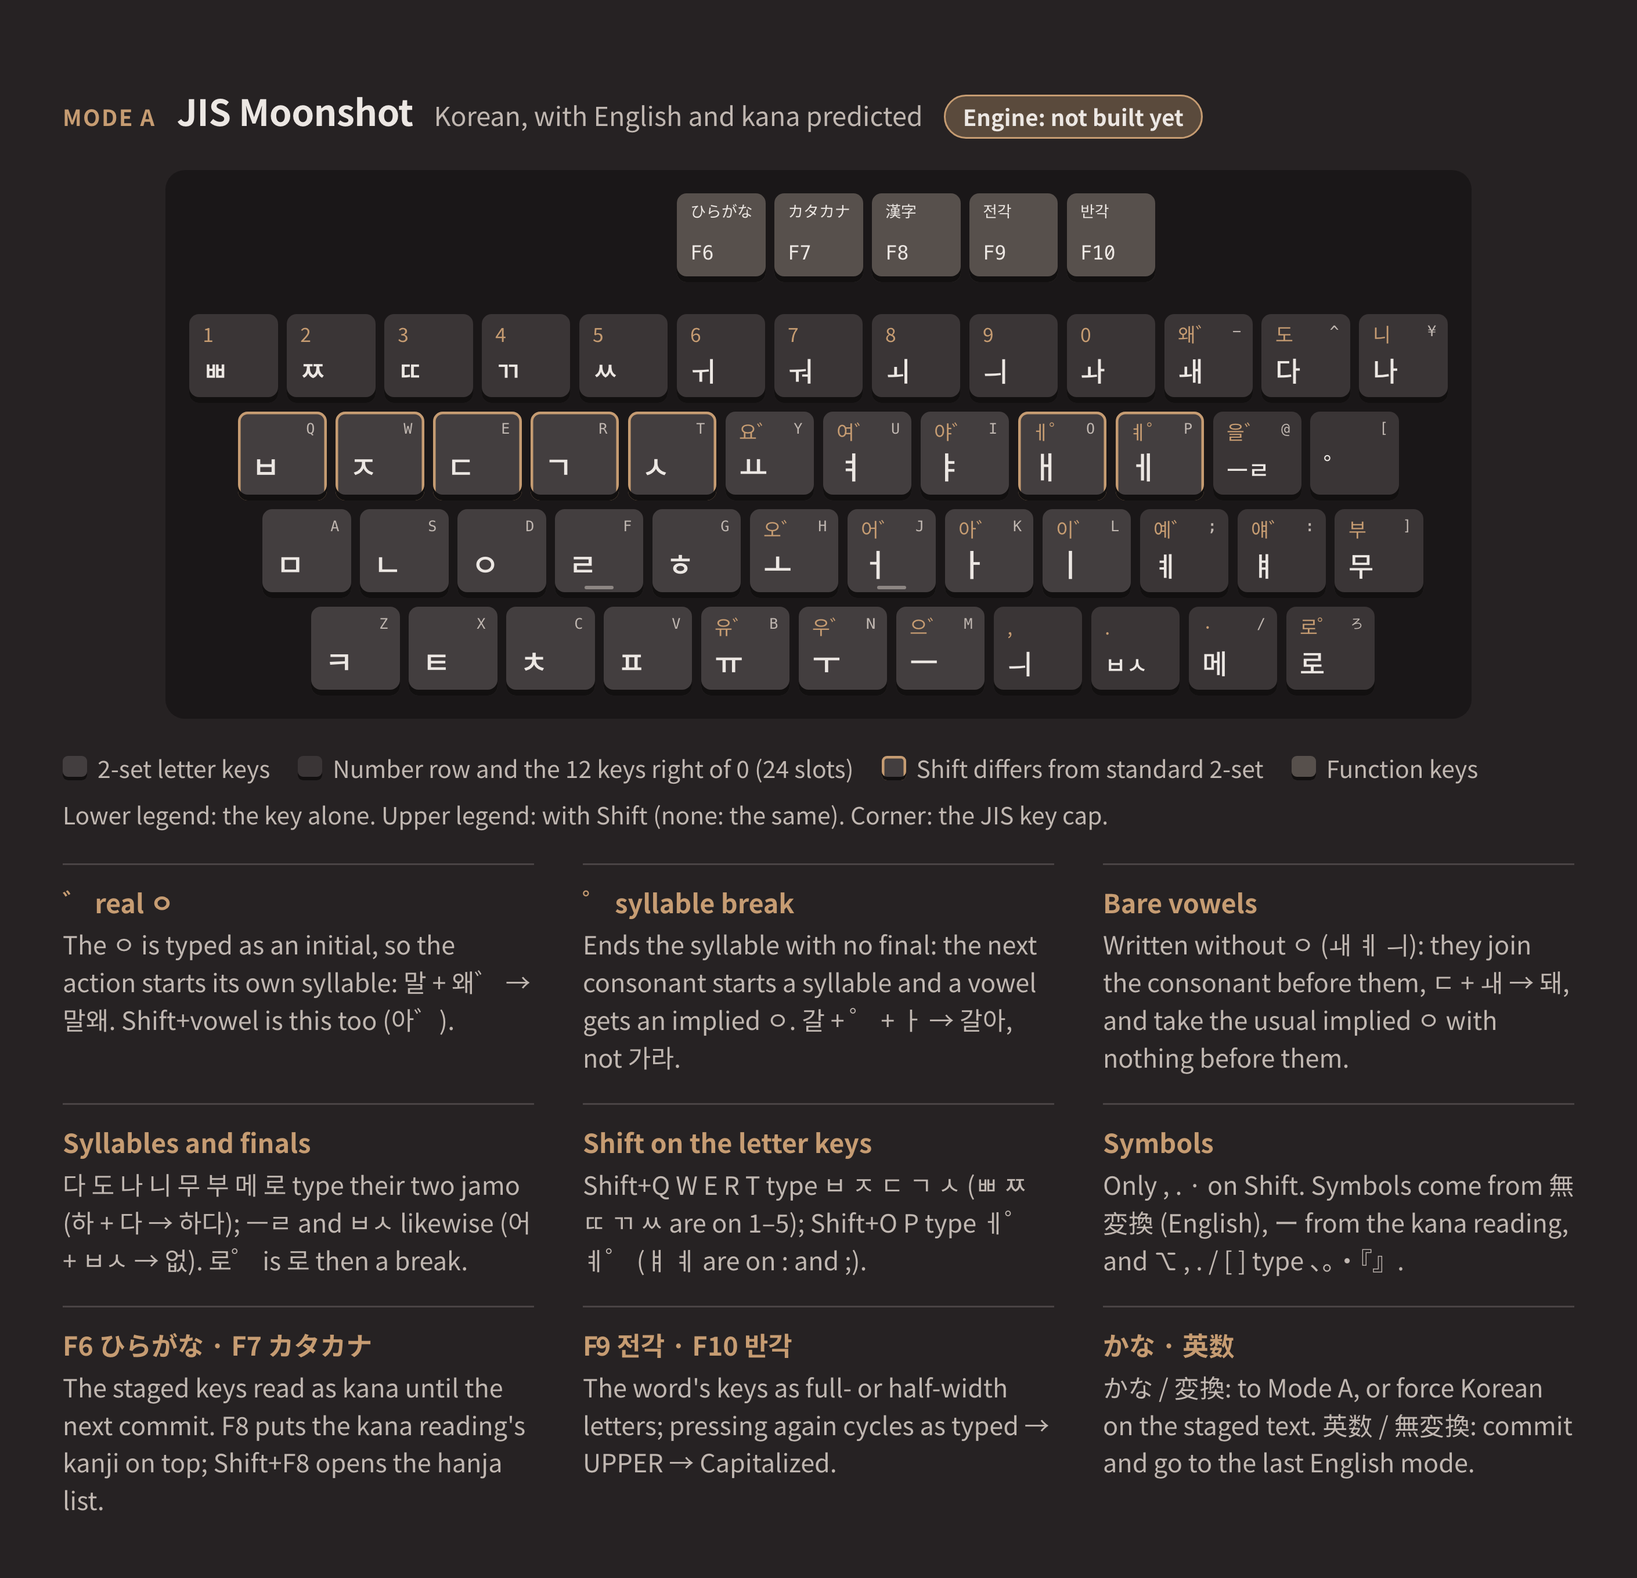
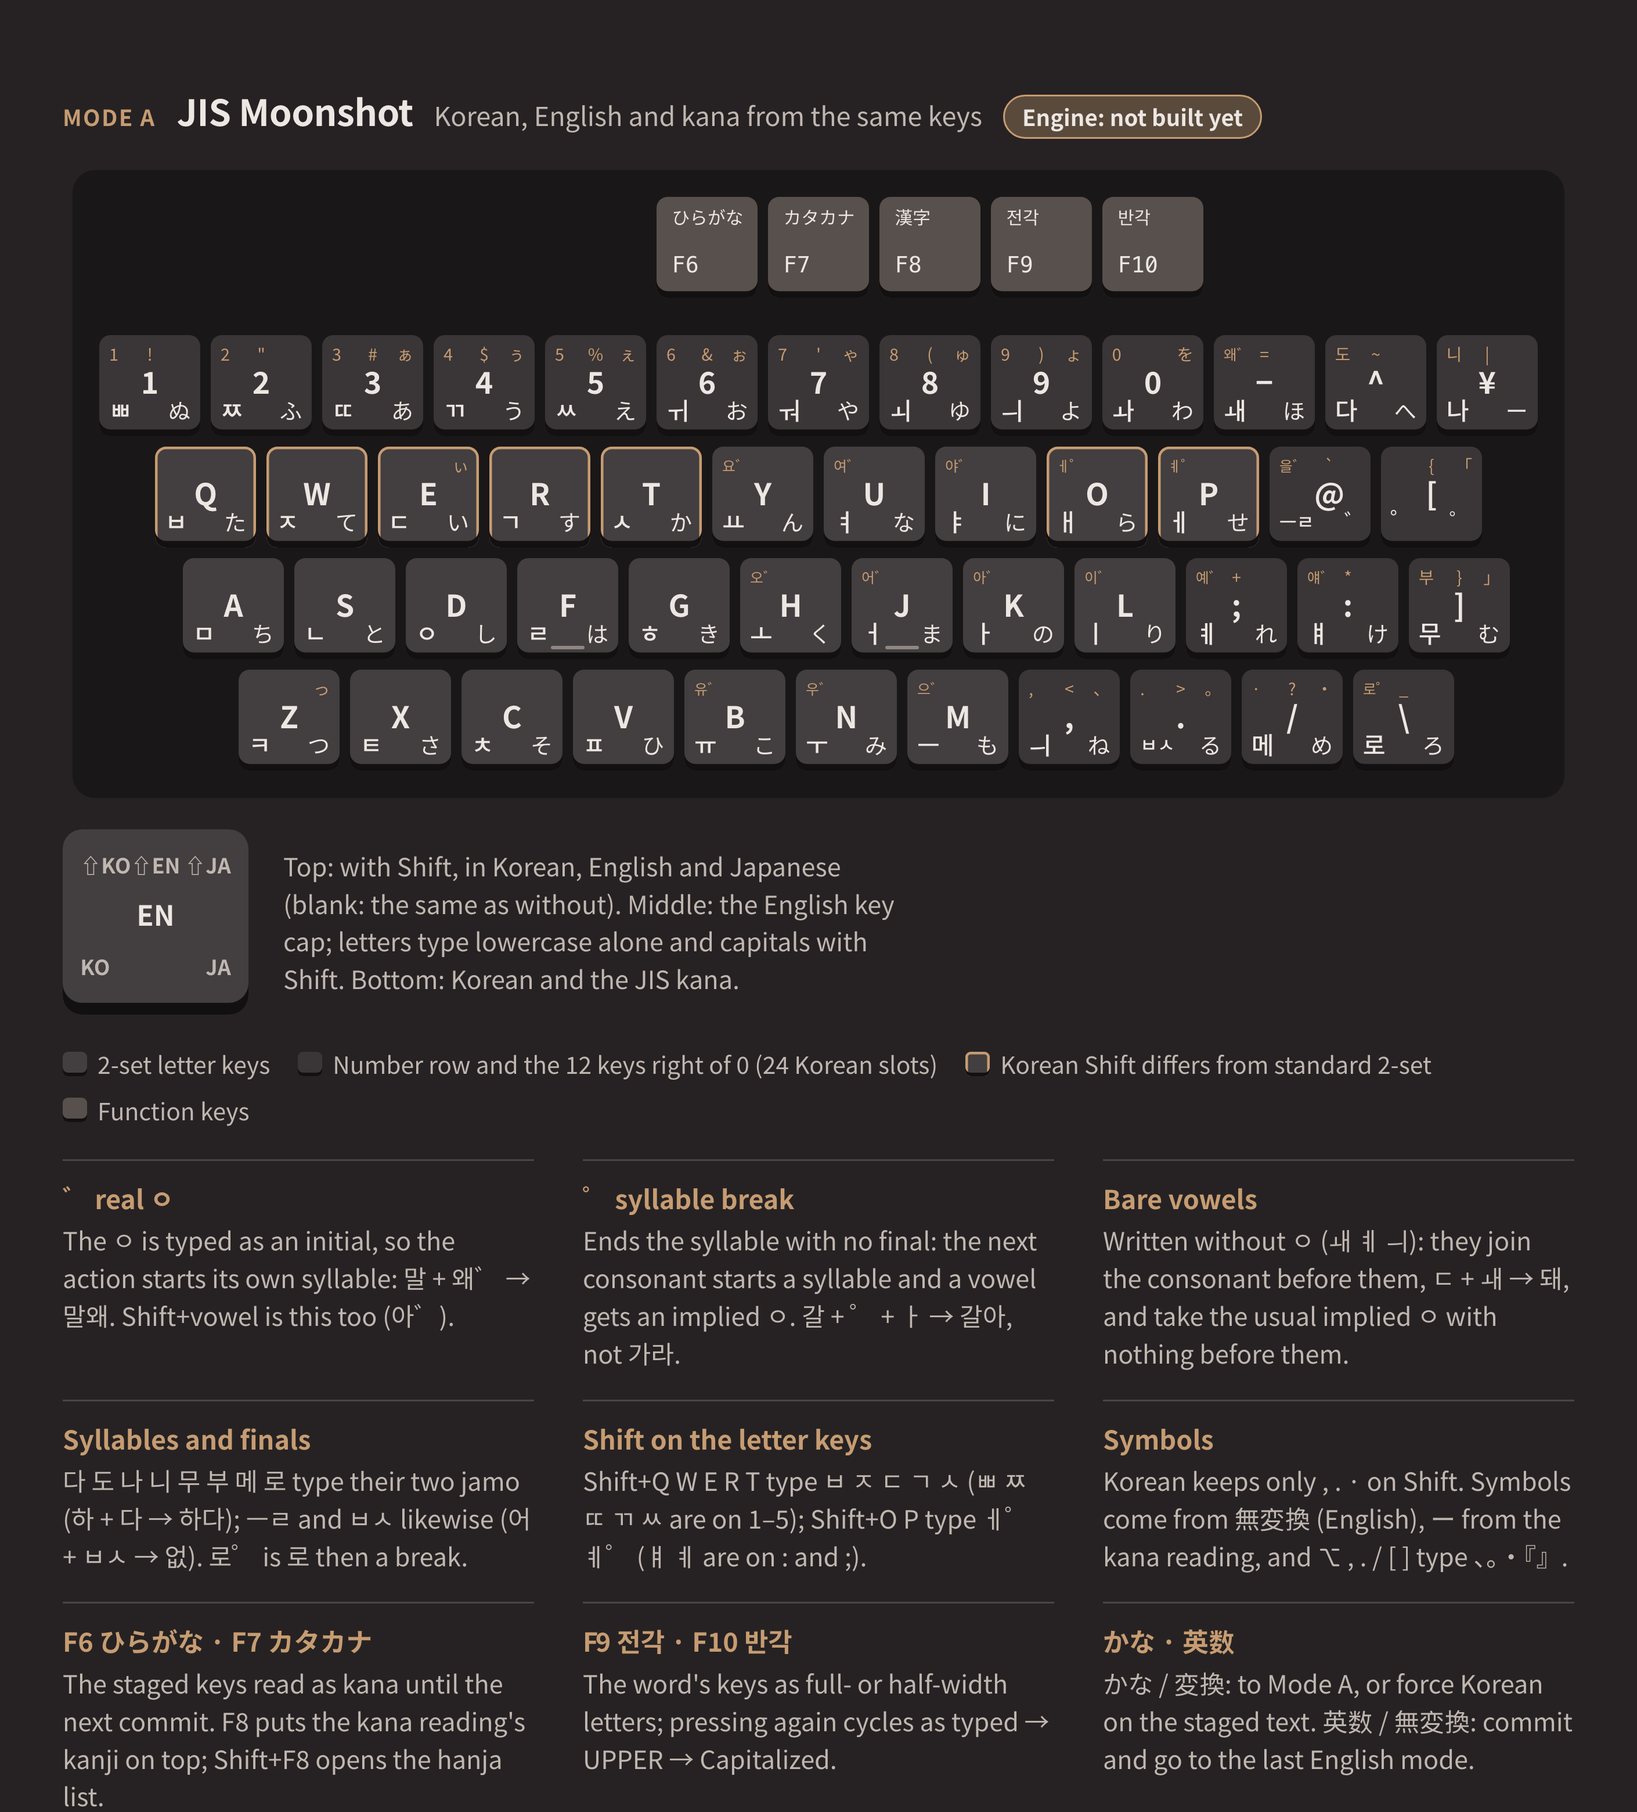
docs: one board, every key with its Korean, English and kana readings
JIS Kana's board goes (the drawing is Mode A only). Each key shows Shift's Korean, English and
Japanese along the top, the English key cap in the middle, and Korean and the JIS kana at the
bottom corners, with a large legend key naming each place.

Changed region(s): [[0.0312, 0.0309, 0.9674, 1.0], [0.5929, 0.8035, 0.6241, 0.8344]]

diff --git a/docs/layout/jis-moonshot-layouts.html b/docs/layout/jis-moonshot-layouts.html
@@ -14,7 +14,7 @@
    under it. */
 :root {
   /* One key unit, shared by every board so they compare at the same scale. */
-  --u: min(56px, calc((100vw - 32px) / 15.6));
+  --u: min(64px, calc((100vw - 32px) / 14));
   --charcoal: #433e3f;
   --warm-gray: #7a7265;
   --umber: #8e6e53;
@@ -270,6 +270,32 @@ h1 {
   opacity: 0.6;
 }
 
+/* A key with all three readings: Shift's Korean, English and Japanese along the top, the English
+   key cap in the middle, Korean and Japanese at the bottom corners. */
+.key.tri {
+  display: grid;
+  grid-template: "sk se sj" 1fr ". en ." 1.15fr "ko . ja" 1.1fr / 1fr auto 1fr;
+  align-items: center;
+  padding: calc(var(--u) * 0.06) calc(var(--u) * 0.09) calc(var(--u) * 0.12);
+}
+.key.tri span { position: static; white-space: nowrap; }
+.key.tri .sk { grid-area: sk; justify-self: start; }
+.key.tri .se { grid-area: se; justify-self: center; }
+.key.tri .sj { grid-area: sj; justify-self: end; }
+.key.tri .sk, .key.tri .se, .key.tri .sj { font-size: calc(var(--u) * 0.15); color: var(--legend-shift); }
+.key.tri .en { grid-area: en; justify-self: center; font-size: calc(var(--u) * 0.27); font-weight: 600; }
+.key.tri .ko { grid-area: ko; justify-self: start; font-size: calc(var(--u) * 0.22); font-weight: 500; }
+.key.tri .ja { grid-area: ja; justify-self: end; font-size: calc(var(--u) * 0.2); }
+.key.tri .ko.long { font-size: calc(var(--u) * 0.17); }
+.key.tri .sk.long { font-size: calc(var(--u) * 0.13); }
+
+/* The key legend: one key drawn large, each corner named. */
+.key-legend { display: flex; flex-wrap: wrap; align-items: center; gap: 12px 20px; }
+.key-legend .key.tri { --u: 112px; }
+.key-legend .key.tri span { color: var(--muted); font-weight: 600; font-size: 12px; }
+.key-legend .key.tri .en { font-size: 16px; color: var(--legend); }
+.key-legend p { margin: 0; max-width: 46ch; color: var(--muted); font-size: 0.9rem; }
+
 /* Reading notes under a board */
 
 .notes {
@@ -345,23 +371,26 @@ footer {
 <main>
   <header data-piece="title">
     <h1>JIS Moonshot layouts</h1>
-    <p class="lede">One JIS keyboard read as Korean 2-set (두벌식), English and Japanese kana at once, with predictions picking the reading. Mode A types Korean and predicts all three; JIS Kana types the JIS kana layout; 英数 / 無変換 go to the English modes (JIS QWERTY, Dvorak, Colemak).</p>
+    <p class="lede">One JIS keyboard read as Korean 2-set (두벌식), English and Japanese kana at once, with predictions picking the reading. Every key shows all three: what it types in Korean, the English key it is, and its JIS kana.</p>
   </header>
 
   <section class="mode" aria-labelledby="mode-a" data-piece="mode-a">
     <div class="mode-head">
       <span class="eyebrow">Mode A</span>
       <h2 id="mode-a">JIS Moonshot</h2>
-      <span class="subtitle">Korean, with English and kana predicted</span>
+      <span class="subtitle">Korean, English and kana from the same keys</span>
       <span class="chip open">Engine: not built yet</span>
     </div>
-    <div class="board"><div class="plate" id="board-a" role="img" aria-label="JIS Moonshot Mode A key map"></div></div>
+    <div class="board"><div class="plate" id="board-a" role="img" aria-label="JIS Moonshot key map: Korean, English and kana on every key"></div></div>
+    <div class="key-legend">
+      <div class="key tri" aria-hidden="true"><span class="sk">⇧KO</span><span class="se">⇧EN</span><span class="sj">⇧JA</span><span class="en">EN</span><span class="ko">KO</span><span class="ja">JA</span></div>
+      <p>Top: with Shift, in Korean, English and Japanese (blank: the same as without). Middle: the English key cap; letters type lowercase alone and capitals with Shift. Bottom: Korean and the JIS kana.</p>
+    </div>
     <div class="swatches">
       <span class="swatch"><i></i>2-set letter keys</span>
-      <span class="swatch"><i class="sym"></i>Number row and the 12 keys right of 0 (24 slots)</span>
-      <span class="swatch"><i class="changed"></i>Shift differs from standard 2-set</span>
+      <span class="swatch"><i class="sym"></i>Number row and the 12 keys right of 0 (24 Korean slots)</span>
+      <span class="swatch"><i class="changed"></i>Korean Shift differs from standard 2-set</span>
       <span class="swatch"><i class="fn"></i>Function keys</span>
-      <span>Lower legend: the key alone. Upper legend: with Shift (none: the same). Corner: the JIS key cap.</span>
     </div>
     <dl class="notes">
       <div><dt>゛ real ㅇ</dt><dd>The ㅇ is typed as an initial, so the action starts its own syllable: 말 + 왜゛ → 말왜. Shift+vowel is this too (아゛).</dd></div>
@@ -369,31 +398,10 @@ footer {
       <div><dt>Bare vowels</dt><dd>Written without ㅇ (ㅙ ㅖ ㅢ): they join the consonant before them, ㄷ + ㅙ → 돼, and take the usual implied ㅇ with nothing before them.</dd></div>
       <div><dt>Syllables and finals</dt><dd>다 도 나 니 무 부 메 로 type their two jamo (하 + 다 → 하다); ㅡㄹ and ㅂㅅ likewise (어 + ㅂㅅ → 없). 로゜ is 로 then a break.</dd></div>
       <div><dt>Shift on the letter keys</dt><dd>Shift+Q W E R T type ㅂ ㅈ ㄷ ㄱ ㅅ (ㅃ ㅉ ㄸ ㄲ ㅆ are on 1–5); Shift+O P type ㅔ゜ ㅖ゜ (ㅒ ㅖ are on : and ;).</dd></div>
-      <div><dt>Symbols</dt><dd>Only , . · on Shift. Symbols come from 無変換 (English), ー from the kana reading, and ⌥ , . / [ ] type 、。・『』.</dd></div>
+      <div><dt>Symbols</dt><dd>Korean keeps only , . · on Shift. Symbols come from 無変換 (English), ー from the kana reading, and ⌥ , . / [ ] type 、。・『』.</dd></div>
       <div><dt>F6 ひらがな · F7 カタカナ</dt><dd>The staged keys read as kana until the next commit. F8 puts the kana reading's kanji on top; Shift+F8 opens the hanja list.</dd></div>
       <div><dt>F9 전각 · F10 반각</dt><dd>The word's keys as full- or half-width letters; pressing again cycles as typed → UPPER → Capitalized.</dd></div>
       <div><dt>かな · 英数</dt><dd>かな / 変換: to Mode A, or force Korean on the staged text. 英数 / 無変換: commit and go to the last English mode.</dd></div>
-    </dl>
-  </section>
-
-  <section class="mode" aria-labelledby="mode-kana" data-piece="kana">
-    <div class="mode-head">
-      <span class="eyebrow">A_KANA</span>
-      <h2 id="mode-kana">JIS Kana</h2>
-      <span class="subtitle">The JIS kana layout, hiragana or katakana</span>
-    </div>
-    <div class="board"><div class="plate" id="board-kana" role="img" aria-label="JIS Kana key map"></div></div>
-    <div class="swatches">
-      <span class="swatch"><i></i>Letter keys</span>
-      <span class="swatch"><i class="sym"></i>Number and symbol keys</span>
-      <span class="swatch"><i class="fn"></i>Function keys</span>
-      <span>Lower legend: the key alone. Upper legend: with Shift (none: the same). Corner: the JIS key cap.</span>
-    </div>
-    <dl class="notes">
-      <div><dt>゛ ゜</dt><dd>A kana then ゛ becomes voiced (か゛ → が), a は-row kana then ゜ semi-voiced (は゜ → ぱ). Backspace takes the mark off again.</dd></div>
-      <div><dt>Small kana</dt><dd>Shift on 3–9, E and Z: ぁ ぅ ぇ ぉ ゃ ゅ ょ ぃ っ. Shift+0 is を, and Shift on [ ] , . / types 「 」 、 。 ・.</dd></div>
-      <div><dt>F6 · F7</dt><dd>Switch the mode's script for good: hiragana or katakana. F8 lists the kanji conversions above the kana.</dd></div>
-      <div><dt>Nothing predicted</dt><dd>Every key types its kana. かな / 変換 goes to Mode A with the staged keys forced Korean; 英数 / 無変換 to English.</dd></div>
     </dl>
   </section>
 
@@ -401,106 +409,89 @@ footer {
 </main>
 
 <script>
-// Each key: [base, shift, cap, kind]. shift null: Shift types the same. cap: the printed JIS legend,
-// shown in the corner when it differs from both outputs. kind: "" letter, "sym", and "changed" where
-// Shift differs from standard 2-set.
+// Each key: [ko, shift ko, en, shift en, ja, shift ja, kind]. A shift reading that is null or the
+// same as the key alone isn't drawn. en: the JIS key cap (letters type lowercase alone). kind: ""
+// letter, "sym", and "changed" where Korean Shift differs from standard 2-set.
 const FN = [["F6", "ひらがな"], ["F7", "カタカナ"], ["F8", "漢字"], ["F9", "전각"], ["F10", "반각"]];
-
-// Mode A (docs/moonshot.md §9).
-const A = {
-  fn: FN,
-  rows: [
-    { offset: 0, keys: [
-      ["ㅃ", "1", "1", "sym"], ["ㅉ", "2", "2", "sym"], ["ㄸ", "3", "3", "sym"], ["ㄲ", "4", "4", "sym"],
-      ["ㅆ", "5", "5", "sym"], ["ㅟ", "6", "6", "sym"], ["ㅝ", "7", "7", "sym"], ["ㅚ", "8", "8", "sym"],
-      ["ㅢ", "9", "9", "sym"], ["ㅘ", "0", "0", "sym"], ["ㅙ", "왜゛", "−", "sym"], ["다", "도", "^", "sym"],
-      ["나", "니", "¥", "sym"],
-    ] },
-    { offset: 0.5, keys: [
-      ["ㅂ", null, "Q", "changed"], ["ㅈ", null, "W", "changed"], ["ㄷ", null, "E", "changed"], ["ㄱ", null, "R", "changed"],
-      ["ㅅ", null, "T", "changed"], ["ㅛ", "요゛", "Y"], ["ㅕ", "여゛", "U"], ["ㅑ", "야゛", "I"],
-      ["ㅐ", "ㅔ゜", "O", "changed"], ["ㅔ", "ㅖ゜", "P", "changed"], ["ㅡㄹ", "을゛", "@", "sym"], ["゜", "゜", "[", "sym"],
-    ] },
-    { offset: 0.75, keys: [
-      ["ㅁ", null, "A"], ["ㄴ", null, "S"], ["ㅇ", null, "D"], ["ㄹ", null, "F"], ["ㅎ", null, "G"],
-      ["ㅗ", "오゛", "H"], ["ㅓ", "어゛", "J"], ["ㅏ", "아゛", "K"], ["ㅣ", "이゛", "L"],
-      ["ㅖ", "예゛", ";", "sym"], ["ㅒ", "얘゛", ":", "sym"], ["무", "부", "]", "sym"],
-    ] },
-    { offset: 1.25, keys: [
-      ["ㅋ", null, "Z"], ["ㅌ", null, "X"], ["ㅊ", null, "C"], ["ㅍ", null, "V"], ["ㅠ", "유゛", "B"],
-      ["ㅜ", "우゛", "N"], ["ㅡ", "으゛", "M"], ["ㅢ", ",", ",", "sym"], ["ㅂㅅ", ".", ".", "sym"],
-      ["메", "·", "/", "sym"], ["로", "로゜", "ろ", "sym"],
-    ] },
-  ],
-};
-
-// JIS Kana (docs/moonshot.md §3).
-const KANA = {
-  fn: [["F6", "ひらがな"], ["F7", "カタカナ"], ["F8", "漢字"], ["F9", "全角"], ["F10", "半角"]],
-  rows: [
-    { offset: 0, keys: [
-      ["ぬ", null, "1", "sym"], ["ふ", null, "2", "sym"], ["あ", "ぁ", "3", "sym"], ["う", "ぅ", "4", "sym"],
-      ["え", "ぇ", "5", "sym"], ["お", "ぉ", "6", "sym"], ["や", "ゃ", "7", "sym"], ["ゆ", "ゅ", "8", "sym"],
-      ["よ", "ょ", "9", "sym"], ["わ", "を", "0", "sym"], ["ほ", null, "−", "sym"], ["へ", null, "^", "sym"],
-      ["ー", null, "¥", "sym"],
-    ] },
-    { offset: 0.5, keys: [
-      ["た", null, "Q"], ["て", null, "W"], ["い", "ぃ", "E"], ["す", null, "R"], ["か", null, "T"],
-      ["ん", null, "Y"], ["な", null, "U"], ["に", null, "I"], ["ら", null, "O"], ["せ", null, "P"],
-      ["゛", null, "@", "sym"], ["゜", "「", "[", "sym"],
-    ] },
-    { offset: 0.75, keys: [
-      ["ち", null, "A"], ["と", null, "S"], ["し", null, "D"], ["は", null, "F"], ["き", null, "G"],
-      ["く", null, "H"], ["ま", null, "J"], ["の", null, "K"], ["り", null, "L"],
-      ["れ", null, ";", "sym"], ["け", null, ":", "sym"], ["む", "」", "]", "sym"],
-    ] },
-    { offset: 1.25, keys: [
-      ["つ", "っ", "Z"], ["さ", null, "X"], ["そ", null, "C"], ["ひ", null, "V"], ["こ", null, "B"],
-      ["み", null, "N"], ["も", null, "M"], ["ね", "、", ",", "sym"], ["る", "。", ".", "sym"],
-      ["め", "・", "/", "sym"], ["ろ", null, "ろ", "sym"],
-    ] },
-  ],
-};
+const ROWS = [
+  { offset: 0, keys: [
+    ["ㅃ", "1", "1", "!", "ぬ", null, "sym"], ["ㅉ", "2", "2", "\"", "ふ", null, "sym"],
+    ["ㄸ", "3", "3", "#", "あ", "ぁ", "sym"], ["ㄲ", "4", "4", "$", "う", "ぅ", "sym"],
+    ["ㅆ", "5", "5", "%", "え", "ぇ", "sym"], ["ㅟ", "6", "6", "&", "お", "ぉ", "sym"],
+    ["ㅝ", "7", "7", "'", "や", "ゃ", "sym"], ["ㅚ", "8", "8", "(", "ゆ", "ゅ", "sym"],
+    ["ㅢ", "9", "9", ")", "よ", "ょ", "sym"], ["ㅘ", "0", "0", null, "わ", "を", "sym"],
+    ["ㅙ", "왜゛", "−", "=", "ほ", null, "sym"], ["다", "도", "^", "~", "へ", null, "sym"],
+    ["나", "니", "¥", "|", "ー", null, "sym"],
+  ] },
+  { offset: 0.5, keys: [
+    ["ㅂ", null, "Q", null, "た", null, "changed"], ["ㅈ", null, "W", null, "て", null, "changed"],
+    ["ㄷ", null, "E", null, "い", "ぃ", "changed"], ["ㄱ", null, "R", null, "す", null, "changed"],
+    ["ㅅ", null, "T", null, "か", null, "changed"], ["ㅛ", "요゛", "Y", null, "ん", null],
+    ["ㅕ", "여゛", "U", null, "な", null], ["ㅑ", "야゛", "I", null, "に", null],
+    ["ㅐ", "ㅔ゜", "O", null, "ら", null, "changed"], ["ㅔ", "ㅖ゜", "P", null, "せ", null, "changed"],
+    ["ㅡㄹ", "을゛", "@", "`", "゛", null, "sym"], ["゜", "゜", "[", "{", "゜", "「", "sym"],
+  ] },
+  { offset: 0.75, keys: [
+    ["ㅁ", null, "A", null, "ち", null], ["ㄴ", null, "S", null, "と", null], ["ㅇ", null, "D", null, "し", null],
+    ["ㄹ", null, "F", null, "は", null], ["ㅎ", null, "G", null, "き", null], ["ㅗ", "오゛", "H", null, "く", null],
+    ["ㅓ", "어゛", "J", null, "ま", null], ["ㅏ", "아゛", "K", null, "の", null], ["ㅣ", "이゛", "L", null, "り", null],
+    ["ㅖ", "예゛", ";", "+", "れ", null, "sym"], ["ㅒ", "얘゛", ":", "*", "け", null, "sym"],
+    ["무", "부", "]", "}", "む", "」", "sym"],
+  ] },
+  { offset: 1.25, keys: [
+    ["ㅋ", null, "Z", null, "つ", "っ"], ["ㅌ", null, "X", null, "さ", null], ["ㅊ", null, "C", null, "そ", null],
+    ["ㅍ", null, "V", null, "ひ", null], ["ㅠ", "유゛", "B", null, "こ", null], ["ㅜ", "우゛", "N", null, "み", null],
+    ["ㅡ", "으゛", "M", null, "も", null], ["ㅢ", ",", ",", "<", "ね", "、", "sym"],
+    ["ㅂㅅ", ".", ".", ">", "る", "。", "sym"], ["메", "·", "/", "?", "め", "・", "sym"],
+    ["로", "로゜", "\\", "_", "ろ", null, "sym"],
+  ] },
+];
 
 function span(cls, text) {
   const s = document.createElement("span");
-  s.className = cls;
+  s.className = cls + ([...text].length > 1 && (cls === "ko" || cls === "sk") ? " long" : "");
   s.textContent = text;
   return s;
 }
 
-function draw(plate, layout) {
+function draw(plate) {
   const fnRow = document.createElement("div");
   fnRow.className = "row fn-row";
   fnRow.style.setProperty("--offset", 5);
-  for (const [name, label] of layout.fn) {
+  for (const [name, label] of FN) {
     const key = document.createElement("div");
     key.className = "key fn";
-    key.append(span("shifted", label), span("base", name));
+    const shifted = document.createElement("span");
+    shifted.className = "shifted";
+    shifted.textContent = label;
+    const base = document.createElement("span");
+    base.className = "base";
+    base.textContent = name;
+    key.append(shifted, base);
     fnRow.append(key);
   }
   plate.append(fnRow);
-  for (const { offset, keys } of layout.rows) {
+  for (const { offset, keys } of ROWS) {
     const row = document.createElement("div");
     row.className = "row";
     row.style.setProperty("--offset", offset);
-    for (const [base, shift, cap, kind = ""] of keys) {
+    for (const [ko, sko, en, sen, ja, sja, kind = ""] of keys) {
       const key = document.createElement("div");
-      key.className = ["key", kind, (cap === "F" || cap === "J") && "home"].filter(Boolean).join(" ");
-      if (shift && shift !== base) key.append(span("shifted", shift));
-      key.append(span([...base].length > 1 ? "base long" : "base", base));
-      if (cap !== base && cap !== shift) key.append(span("latin", cap));
-      key.title = cap + ": " + base + (shift && shift !== base ? ", Shift: " + shift : "");
+      key.className = ["key", "tri", kind, (en === "F" || en === "J") && "home"].filter(Boolean).join(" ");
+      const shown = (shift, alone) => (shift && shift !== alone ? shift : "");
+      key.append(span("sk", shown(sko, ko)), span("se", shown(sen, en)), span("sj", shown(sja, ja)),
+        span("en", en), span("ko", ko), span("ja", ja));
+      const with_ = [shown(sko, ko) && "Shift " + sko, shown(sen, en) && "Shift " + sen, shown(sja, ja) && "Shift " + sja].filter(Boolean);
+      key.title = `${en}: ${ko} / ${ja}` + (with_.length ? ` (${with_.join(", ")})` : "");
       row.append(key);
     }
     plate.append(row);
   }
 }
 
-draw(document.getElementById("board-a"), A);
-draw(document.getElementById("board-kana"), KANA);
-// One piece of the drawing (render.sh sets data-piece on <html>): title, mode-a, kana or footer.
-// The other pieces are hidden, so the page is that piece's height.
+draw(document.getElementById("board-a"));
+// One piece of the drawing (render.sh sets data-piece on <html>): title, mode-a or footer. The
+// other pieces are hidden, so the page is that piece's height.
 const piece = document.documentElement.dataset.piece;
 if (piece) {
   for (const el of document.querySelectorAll("main > [data-piece]")) el.hidden = el.dataset.piece !== piece;

diff --git a/docs/layout/social.py b/docs/layout/social.py
@@ -45,7 +45,6 @@ def build(theme: str) -> str:
   </div>
   <div class="board"><div class="plate" id="board-a"></div></div>
 </div>
-<div class="hidden-boards"><div id="board-kana"></div></div>
 {script}
 </body>
 </html>"""
